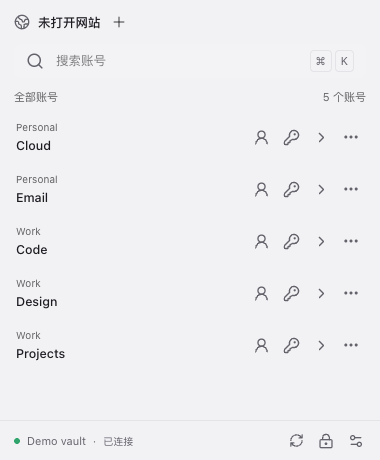
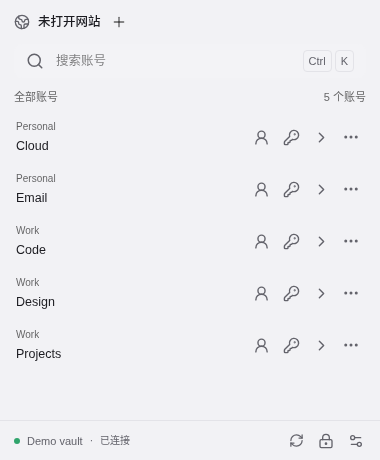
docs(store): refresh the Chrome Web Store materials for v0.1.7
Rebuild and verify the 0.1.7 Chrome package, retake both languages' screenshots so account details show the labeled fill action, and update version references. Give reviewers the v0.1.7 desktop client downloads with per-platform install steps, and keep the publisher's own verification status out of the dashboard text.

diff --git a/docs/chrome-web-store/reviewer-instructions.md b/docs/chrome-web-store/reviewer-instructions.md
@@ -1,25 +1,25 @@
 # 审核测试说明 / Reviewer instructions
 
-对应版本：0.1.2。本轮已使用真实生产扩展的工具栏弹窗，通过真实 Native Messaging 连接隔离 Go 客户端，拍摄中英文账号列表、详情及生成器，各 3 张，全部使用虚构数据。以下是从干净安装开始的完整审核步骤；这些实拍只证明其覆盖的场景。
+对应版本：0.1.7。商店截图已用 0.1.7 真实生产扩展的工具栏弹窗，通过真实 Native Messaging 连接隔离 Go 客户端重拍，中英文账号列表、详情及生成器各 3 张，全部使用虚构数据，见 [素材记录](assets.md)。以下是从干净安装开始的完整审核步骤；这些实拍只证明其覆盖的场景。
 
 ## 发布者提交前补齐
 
-- 在商店 **Test instructions** 中提供本版本桌面客户端的公开、固定下载 URL、支持的平台及安装步骤。项目入口是 https://github.com/knothhe/passpine ，不能假定尚未发布的 Release 链接可下载。
+- 桌面客户端下载已填入下方英文说明，指向已发布的 [v0.1.7 Release](https://github.com/knothhe/passpine/releases/tag/v0.1.7)（2026-10-23 核对为正式版、非草稿）。提交更新版本的扩展时，同步改为对应版本的 Release 和文件名。
 - 核对商店 Item ID、实际安装 ID、客户端 Native Host `allowed_origins` 一致。当前仓库开发 ID 为 `obnlebeedcbbchadakacilopfdaifgjh`，Host 为 `com.knothhe.passpine`。见 [官方 key 文档](https://developer.chrome.com/docs/extensions/reference/manifest/key)。
-- 使用最终商店分配的扩展 ID、最终 ZIP 和正式分发的桌面安装包，复跑以下步骤并记录平台、Chrome 版本、日期与结果。这组完整安装、填充、复制、锁定和恢复路径仍待验收；已完成的实拍与 Native Messaging 连通不能替代完整流程。
+- 使用最终商店分配的扩展 ID、最终 ZIP 和正式分发的桌面安装包，复跑以下步骤并记录平台、Chrome 版本、日期与结果。这组完整安装、填充、复制、锁定和恢复路径仍待验收；已完成的实拍与 Native Messaging 连通不能替代完整流程。下方英文说明会粘贴到后台，不在其中写入发布者自己的验收状态。
 - 本产品不需要开发者账户、云 API Key、付费服务或现有 password-store。审核人员应创建自己的临时库；本文件中的虚构口令只供临时验收，不用于真实账号。
 
 ## 中文测试步骤
 
-1. 安装并运行发布者提供的桌面客户端。在首次设置中选择“创建密码库”，选择一个新的空目录，设置密码库名称及至少 12 个字符的私钥口令，例如 `Passpine-review-2026!`，填写“确认口令”，点击“创建密钥与密码库”。无需预装 GnuPG 或导入密钥。预期：客户端生成受口令保护的 OpenPGP 私钥并进入空密码库。按创建后的提示，在客户端“设置 → 密码库”使用“导出恢复私钥”和“验证恢复备份”；临时测试结束后删除这组测试备份。
+1. 按下方英文说明中的地址下载并安装 v0.1.7 桌面客户端，然后运行。在首次设置中选择“创建密码库”，选择一个新的空目录，设置密码库名称及至少 12 个字符的私钥口令，例如 `Passpine-review-2026!`，填写“确认口令”，点击“创建密钥与密码库”。无需预装 GnuPG 或导入密钥。预期：客户端生成受口令保护的 OpenPGP 私钥并进入空密码库。按创建后的提示，在客户端“设置 → 密码库”使用“导出恢复私钥”和“验证恢复备份”；临时测试结束后删除这组测试备份。
 2. 在客户端“设置 → 浏览器”确认 Chrome 显示“已注册”；未注册时点击“注册”，已有失效连接时点击“修复”。保持客户端运行。安装审核中的扩展包，打开其页脚“设置与连接”图标，在浏览器设置页点击“检查连接”。预期：显示连接状态、库名称、Host 与扩展 ID。客户端完全退出时显示未连接状态及连接指引；仅关闭窗口可能仍在后台运行。
 3. 打开扩展，点击当前网站区域的加号“新建账号”。名称填 `review/local-test`，用户名填 `reviewer@example.invalid`，密码填 `Fixture-password-2026!`，网站填测试页的地址。需要测试 TOTP 时，在“自定义字段 → 添加字段”中将字段名称填为 `otp`，值填为虚构 Base32 种子 `JBSWY3DPEHPK3PXP`。点击“保存”。预期：账号加密保存并出现在客户端和扩展列表中，搜索 `local-test` 能找到它。编辑表单可维护自定义字段；详情页不逐项展示全部自定义字段。
 4. 点击账号行右侧的详情箭头“查看 local-test”，切换显示/隐藏密码，复制用户名或密码；在可信的临时文本编辑器内验证复制值。预期：密码默认遮罩；有上一步的有效 `otp` 字段时，详情显示计算出的一次性验证码及倒计时。复制成功后按客户端超时设置清理剪贴板，默认 30 秒，前提是剪贴板值未被其他内容替换。不要将测试凭证粘贴到外部服务。
-5. 打开你控制的测试登录页面（可使用下方静态表单），再打开扩展并点击账号正文。预期：当前顶层页面的用户名和密码输入框被填写，有 `autocomplete="one-time-code"` 时可填写 OTP；扩展不会提交表单。成功后弹窗关闭，并保存精确主机名的关联。重新打开扩展可优先找到该账号；在更多菜单中取消关联后该手动关联不再生效。
+5. 打开你控制的测试登录页面（可使用下方静态表单），再打开扩展并点击账号正文，或在账号详情页点击“填充账号与密码”。预期：当前顶层页面的用户名和密码输入框被填写，有 `autocomplete="one-time-code"` 时可填写 OTP；扩展不会提交表单。成功后弹窗关闭，并保存精确主机名的关联。重新打开扩展可优先找到该账号；在更多菜单中取消关联后该手动关联不再生效。
 6. 从账号详情页右上角点击“编辑账号”，更改并保存，再刷新客户端确认一致。再次进入详情页，点击“删除账号”并确认“移入回收站”。预期：账号从列表移除，在客户端“恢复中心 → 回收站”可恢复；恢复后重新打开扩展可见。
 7. 点击“新建账号”，或进入现有账号的“编辑账号”，在密码输入框下点击“重新生成密码”进入“密码生成器”。改变长度及字符类型并重新生成。预期：产生符合选项的密码，可点击“复制”，或点击“使用此密码”将结果带回当前账号表单；保存账号后才写入密码库。不应允许所有字符类型都关闭。
 8. 在扩展中锁定密码库，再请求查看或填充。预期：无法直接读取秘密；已配置系统解锁的平台会请求系统验证，否则前往客户端解锁后再继续。不要要求审核人员使用开发者的系统账户或生物识别信息。
-9. 在扩展设置切换 English / 简体中文 / 跟随系统、明暗主题与字号。预期：界面即时更新，账号名称与内容不被翻译。关于页面显示 0.1.2。
+9. 在扩展设置切换 English / 简体中文 / 跟随系统、明暗主题与字号。预期：界面即时更新，账号名称与内容不被翻译。关于页面显示 0.1.7。
 
 填充仅支持普通 HTTP/HTTPS 顶层页面；浏览器内部页、跨域 iframe、封闭 Shadow DOM 和部分定制输入框不在本次基本测试范围。HTTP 测试仅用虚构数据。Git 同步属于用户可选的客户端功能，基础审核不需要 Git 账户或远端仓库。
 
@@ -27,19 +27,23 @@
 
 Passpine is a companion to the separately installed local desktop client. No developer account, cloud API key, subscription, existing password-store, or preinstalled GnuPG is required for the basic review.
 
-**Desktop client download:** PUBLISHER MUST INSERT A VERIFIED, PUBLIC VERSIONED DOWNLOAD URL BEFORE SUBMISSION.
+**Desktop client download (v0.1.7):** https://github.com/knothhe/passpine/releases/tag/v0.1.7
+
+- Windows x64: `Passpine-0.1.7-windows-amd64-setup.exe` — https://github.com/knothhe/passpine/releases/download/v0.1.7/Passpine-0.1.7-windows-amd64-setup.exe . The installer is not Authenticode signed; if SmartScreen appears, choose **More info → Run anyway**.
+- macOS Apple Silicon: `Passpine-0.1.7-macos-arm64.zip` — https://github.com/knothhe/passpine/releases/download/v0.1.7/Passpine-0.1.7-macos-arm64.zip . Unzip and move Passpine.app to Applications. The app is not notarized; if macOS blocks the first launch, choose **Open Anyway** in System Settings → Privacy & Security. Intel Macs are not supported by this release.
+- Linux x86-64: `Passpine-0.1.7-linux-amd64.tar.gz` — https://github.com/knothhe/passpine/releases/download/v0.1.7/Passpine-0.1.7-linux-amd64.tar.gz . Requires GTK 3 and WebKitGTK 4.1. Extract into an empty folder and run `./install.sh`, which installs to `~/.local/bin` and adds a desktop menu entry.
 
 1. Install and run the companion client. Choose **Create vault**, select a new empty folder, and enter a vault name and a private-key passphrase of at least 12 characters. `Passpine-review-2026!` is a disposable example. Confirm the passphrase and select **Create key and vault**. The client generates a passphrase-protected OpenPGP private key locally. Export and verify a recovery-key backup through client Settings → Vault as prompted. Use a temporary vault only.
 2. In client Settings → Browsers, confirm Chrome shows **Registered**. If needed, select **Register**, or **Repair** if its existing registration is invalid. Keep the client running. Install the extension under review. Open the footer's **Settings and connection** icon and use **Check connection** on the Browser settings page. The Native Host is `com.knothhe.passpine`. The publisher must confirm the installed store ID is allowed by the client. Fully quit the client to test disconnection; closing its window may leave it running.
 3. Click the plus icon labeled **New account** in the extension's current-website area. Create `review/local-test` with username `reviewer@example.invalid`, password `Fixture-password-2026!`, and your controlled test-page URL. To test TOTP, choose **Custom fields → Add field**, enter `otp` as the field name and the dummy Base32 seed `JBSWY3DPEHPK3PXP` as its value. Save and search for the account. The editor manages custom fields; the details view does not list every custom field.
 4. Click the account row's right-hand details arrow labeled **View local-test**. Check password reveal/hide and copying. A valid `otp` field produces a one-time code with a countdown in the details view. Paste copied credentials only into a trusted local temporary editor. Credential clipboard expiry defaults to 30 seconds and clears only if the copied value has not been replaced.
-5. Open a controlled page with username and password inputs, invoke the extension, and click the account row. The top-level inputs should be filled; a supported one-time-code input can also be filled. Passpine does not submit the form. On success the popup closes and links the account to the exact hostname. Reopen the popup to verify the association, then unlink it through the account menu.
+5. Open a controlled page with username and password inputs, invoke the extension, and click the account row, or choose **Fill login** in account details. The top-level inputs should be filled; a supported one-time-code input can also be filled. Passpine does not submit the form. On success the popup closes and links the account to the exact hostname. Reopen the popup to verify the association, then unlink it through the account menu.
 6. In account details choose **Edit account**, save a change, and verify it in the client. Reopen details, choose **Delete account**, confirm **Move to trash**, then restore it through the client's Recovery → Trash.
 7. Open **New account** or **Edit account**, then select **Regenerate password** below the password input to open **Password generator**. Change length and character groups and regenerate. Select **Copy**, or **Use this password** to return the result to the current account form. Saving the account writes it to the vault.
 8. Lock the vault and request a credential. Secrets require another valid unlock. Configured supported devices may prompt for system authentication; otherwise unlock in the desktop client. Reviewers do not need the publisher's operating-system credentials.
-9. Switch English / Simplified Chinese / System default, color mode, and text size in extension settings. UI labels change while user entry content remains unchanged. The About page shows version 0.1.2.
+9. Switch English / Simplified Chinese / System default, color mode, and text size in extension settings. UI labels change while user entry content remains unchanged. The About page shows version 0.1.7.
 
-The extension cannot operate as a standalone vault. Browser internal pages, cross-origin frames, closed Shadow DOM, and some custom forms are not supported by the basic fill path. Git synchronization is optional and is not needed for review. The current English and Chinese screenshots show the production extension's real toolbar popup connected to an isolated Go client through real Native Messaging, using fictitious data. They cover the account list, details, and generator. A complete review using the final store-assigned ID and distributed desktop installer, including live-page filling, copying, locking, and recovery, remains pending. The separate web preview is an isolated UI demonstration and does not establish that real connection or fill a live page.
+The extension cannot operate as a standalone vault. Browser internal pages, cross-origin frames, closed Shadow DOM, and some custom forms are not supported by the basic fill path. Git synchronization is optional and is not needed for review.
 
 ## 可选本地测试表单 / Optional local fixture
 

diff --git a/docs/chrome-web-store/README.md b/docs/chrome-web-store/README.md
@@ -1,6 +1,6 @@
 # Chrome Web Store 上架材料
 
-目标：Passpine **0.1.2**，Chrome Manifest V3。准备日期：**2026-10-22**。本目录是提交材料，不包含商店上传或审核提交记录。
+目标：Passpine **0.1.7**，Chrome Manifest V3。准备日期：**2026-10-22**，按 0.1.7 更新于 **2026-10-23**。本目录是提交材料，不包含商店上传或审核提交记录。
 
 ## 可填写的材料
 
@@ -17,27 +17,27 @@
 
 ## 当前核对状态
 
-- 已核对构建后的 `browser/.output/chrome-mv3/manifest.json`：MV3、0.1.2、五项权限、无常驻站点注入和广泛主机权限。权限及数据流说明按实际代码编写。
+- 已核对 0.1.7 Chrome ZIP 内的 `manifest.json`：MV3、0.1.7、与 0.1.2 相同的五项权限、无主机权限和常驻站点注入；`key` 与 `config/browser-identities.json` 的正式身份一致，扩展 ID 未变。ZIP 内无源码、source map、测试配置或未替换的文案占位符。权限及数据流说明按实际代码编写。
 - 中英文短描述沿用包内 `_locales`；名称和描述均低于官方 75 / 132 字符限制。两种介绍的功能、前提和数据处理含义保持一致。
-- Chrome 官方图片、介绍、隐私和发布文档已在 2026-10-22 联网核对，见 [来源记录](sources.md)。尚未访问发布者后台。
-- 浏览器类型检查、231 项测试、Chrome / Firefox 构建通过。截图在当前生产扩展与隔离 Go 客户端之间实际完成 Native Messaging 连接、账号解密及密码生成；最终商店安装 ID + 网页填充、复制、锁定等完整验收仍需按审核指南复跑。
+- Chrome 官方图片、介绍、隐私和发布文档已在 2026-10-22 联网核对，介绍与隐私字段 2026-10-23 复核，见 [来源记录](sources.md)。尚未访问发布者后台。
+- 0.1.7：浏览器类型检查、291 项测试、Chrome / Firefox 构建与打包通过。中英文六张截图已于 2026-10-24 用 0.1.7 在 Linux 上重拍，在生产扩展与隔离 Go 客户端之间实际完成 Native Messaging 连接、账号解密及密码生成；字体与 macOS 版本的差异见 [素材记录](assets.md)。最终商店安装 ID + 网页填充、复制、锁定等完整验收仍需按审核指南复跑。
 
 ## 提交前的必要补项
 
 1. **公开隐私政策。** 政策已作为官网 `/privacy` 页面实现（见 [PRIVACY.md](PRIVACY.md)）。部署官网并绑定正式域名后，验证该 HTTPS 地址无需登录即可访问，再填入商店后台。政策的联系章节提供 GitHub Issues（公开）和 knothhe@gmail.com（私密）两个渠道。现有公开支持入口为 [GitHub Issues](https://github.com/knothhe/passpine/issues)，不要在此提交秘密。
-2. **配套客户端下载。** 在审核说明填入本版本公开、可直接获取的安装包固定 URL，说明平台与安装限制。源码仓库链接不等于已验证可用的安装包。
+2. **截图与客户端下载。** 中英文截图已按 0.1.7 重拍（含新的“填充账号与密码 / Fill login”按钮），配套客户端下载地址已按 v0.1.7 Release 填入[审核说明](reviewer-instructions.md)。扩展尚未在商店发布，提交时若扩展版本已更新，同步重拍并更新这两项。
 3. **商店扩展 ID。** 首次创建草稿后比较后台 Item ID 与当前开发 ID `obnlebeedcbbchadakacilopfdaifgjh`。若不同，按 [官方流程](https://developer.chrome.com/docs/extensions/reference/manifest/key)同步扩展公钥及客户端 Host 允许来源，重新构建、安装并测试真实连接。不能假定开发 key 已绑定商店条目。
 4. **最终实机验收。** 图片已生成并检查，均使用虚构数据。使用最终商店 ID 和对应客户端完成审核指南中的连接、复制、填充、锁定和恢复流程，并记录实际结果。
 5. **后台信息。** 完成发布者账户要求、类别、分发范围、价格、数据类型、Limited Use 认证和测试说明。对 HTTP 填充等限制如实说明；根据实际网站和运营情况确认安全处理要求。
 
 ## 上传包与填写顺序
 
-本次已生成 [Chrome 0.1.2 扩展 ZIP](package/passpine-0.1.2-chrome.zip)，可用于创建商店草稿。需要重新生成发行 ZIP 时，在仓库根目录运行：
+本次已生成 [Chrome 0.1.7 扩展 ZIP](package/passpine-0.1.7-chrome.zip)（SHA-256 见 [SHA256SUMS](package/SHA256SUMS)），可用于创建商店草稿。它由与 `v0.1.7` tag 相同的扩展源码本地构建，大小与 GitHub Release 中的 `passpine-0.1.7-chrome.zip` 相同；也可直接上传 Release 中由 CI 构建的同名文件。需要重新生成发行 ZIP 时，在仓库根目录运行：
 
 ```sh
 pnpm run package:browser
 ```
 
-该命令本地构建并打包 Chrome 与 Firefox，不会上传商店。Chrome 预期文件为 `browser/.output/passpine-0.1.2-chrome.zip`；上传前检查 ZIP 内 `manifest.json` 位于根目录、版本为 0.1.2、没有未替换文案占位符、没有源码/测试配置/真实凭证。不要把整个仓库或本目录的材料 ZIP 当扩展安装包。
+该命令本地构建并打包 Chrome 与 Firefox，不会上传商店。Chrome 预期文件为 `browser/.output/passpine-<版本>-chrome.zip`；上传前检查 ZIP 内 `manifest.json` 位于根目录、版本与目标一致、没有未替换文案占位符、没有源码/测试配置/真实凭证。不要把整个仓库或本目录的材料 ZIP 当扩展安装包。
 
 随后可在开发者后台上传 Chrome ZIP 为草稿，先核对 ID，再填写中英文介绍、图片、隐私政策、权限与数据声明、分发和 Test instructions。全部检查完成后由发布者决定提交审核与发布方式。[官方首次发布流程](https://developer.chrome.com/docs/webstore/publish)。

diff --git a/docs/chrome-web-store/assets.md b/docs/chrome-web-store/assets.md
@@ -1,6 +1,6 @@
 # 图片与拍摄记录
 
-对应 Passpine 0.1.2，2026-10-22 生成并逐张查看。规格依据见[官方来源](sources.md)。所有账号和生成的示例密码仅用于演示；没有读取个人浏览器配置或密码库。
+截图对应 Passpine 0.1.7，2026-10-24 在 Linux 上重新拍摄并逐张查看（0.1.2 版本于 2026-10-22 在 macOS 拍摄）。规格依据见[官方来源](sources.md)。所有账号和生成的示例密码仅用于演示；没有读取个人浏览器配置或密码库。
 
 ## 可上传的文件
 
@@ -20,7 +20,7 @@
 
 ## 实拍来源与验证范围
 
-- 使用当前 `browser/.output/chrome-mv3` 生产构建，Chrome for Testing 153.0.8010.12，独立临时 profile。通过真正的 `chrome.action.openPopup()` 工具栏弹窗入口拍摄，没有将 popup 当普通标签页打开或绕过消息来源校验。
+- 使用 0.1.7 的 `browser/.output/chrome-mv3` 生产构建，Linux 上 Playwright 提供的 Chromium 156.0.8078.4（品牌版 Chrome 不支持 `--load-extension`），独立临时 profile。通过真正的 `chrome.action.openPopup()` 工具栏弹窗入口拍摄，没有将 popup 当普通标签页打开或绕过消息来源校验。
 - 隔离 Go 客户端服务由 [store-demo/main.go](../../scripts/store-demo/main.go) 创建：使用正式 `app.Service`、真实 OpenPGP 密钥/条目加密及 Native Messaging 转发；五个虚构账号保存在临时目录。关闭设备解锁、Git 同步和操作记录，不操作个人账户。测试结束关闭服务和浏览器，并删除测试 profile、密码库和私钥。
 - 语言与浅色主题通过扩展真实设置控件切换。账号名称、目录和备注是用户数据，中文截图中保留其英文内容。
 - 原始弹窗为 380×460，保存在 `source-screenshots/<语言>/`。最终图将完整实拍等比放大到 456×552，加入品牌底图和外围说明；没有重绘或修改扩展内部 UI。等待转场结束，检查无叠影、裁字或遮挡。
@@ -42,8 +42,22 @@ node scripts/capture-store-screenshots.mjs
 
 字体使用 Avenir Next / PingFang SC，回退至 Helvetica Neue / Arial；不同机器的外围字形可能不同。脚本只使用临时测试目录，不能传入个人浏览器 profile 或个人密码库。重新拍摄后逐张查看，并核对尺寸、语言与当前版本。
 
+## 0.1.7 复核
+
+对比 `v0.1.2..v0.1.7` 的扩展界面代码：
+
+| 截图 | 0.1.7 是否需要重拍 | 原因 |
+| --- | --- | --- |
+| `01-accounts.png` | 否 | 账号行只修改了可访问名称和悬停提示，外观不变 |
+| `02-details.png` | **是**（中英文） | 详情页右上角的填充图标改为带文字的“填充账号与密码 / Fill login”按钮；弹窗打开时没有可填充的网页，因此按钮按实际状态显示为禁用 |
+| `03-generator.png` | 否 | 生成器组件未改动 |
+
+商店图标与宣传图不受影响。脚本一次重拍全部六张，2026-10-24 已用 0.1.7 重拍，保证同一组截图字体与环境一致。
+
+这次在 Linux 上拍摄，本机没有 Avenir Next / PingFang SC，底图文字与弹窗系统字体均回退为 Liberation Sans 及系统中文字体，字形不如 0.1.2 的 macOS 版本精致；搜索快捷键显示为 `Ctrl K`（macOS 为 `⌘ K`）。界面内容与 0.1.7 一致。如需与先前一致的字体，可在 macOS 上用同一命令重拍全部六张。
+
 ## 扩展 ZIP
 
-[passpine-0.1.2-chrome.zip](package/passpine-0.1.2-chrome.zip) 是此次本地构建的 Chrome 安装包，`manifest.json` 位于 ZIP 根目录，已核对无源码、测试服务、浏览器 profile 或私钥。只有这个扩展 ZIP 用于商店 Package 上传；文案、政策和图片分别填写或上传。
+[passpine-0.1.7-chrome.zip](package/passpine-0.1.7-chrome.zip) 是此次本地构建的 Chrome 安装包，`manifest.json` 位于 ZIP 根目录，已核对无源码、测试服务、浏览器 profile 或私钥。只有这个扩展 ZIP 用于商店 Package 上传；文案、政策和图片分别填写或上传。
 
 重新打包可执行 `pnpm --dir browser exec wxt zip`，将新版本 Chrome ZIP 复制到 `package/`，同步所有材料的版本号并重新核对。首次草稿创建后，仍需确认商店分配的 ID 与客户端允许来源一致。

diff --git a/docs/chrome-web-store/privacy-permissions.md b/docs/chrome-web-store/privacy-permissions.md
@@ -1,6 +1,6 @@
 # 隐私与权限后台填写参考
 
-版本 0.1.2；核对日期 2026-10-22。已读取构建后的 `browser/.output/chrome-mv3/manifest.json`，不是仅依据源配置推测。此文件供发布者填写后台；面向用户的政策见 [PRIVACY.md](PRIVACY.md)。
+版本 0.1.7；核对日期 2026-10-23（初版按 0.1.2 于 2026-10-22 编写）。已读取 0.1.7 Chrome ZIP 内的 `manifest.json`，不是仅依据源配置推测；权限与 0.1.2 相同。0.1.7 新增的客户端通道选择（`clientTarget`）只在开发者解包安装时可选并写入 `storage.local`，商店安装固定连接正式客户端，不写入该值；读取安装类型的 `management.getSelf` 不需要额外权限。此文件供发布者填写后台；面向用户的政策见 [PRIVACY.md](PRIVACY.md)。
 
 ## 单一用途
 

diff --git a/docs/chrome-web-store/sources.md b/docs/chrome-web-store/sources.md
@@ -1,6 +1,6 @@
 # 官方要求与核对记录
 
-核对日期：2026-10-22。以下页面已通过联网工具访问；这是材料准备记录，不代表开发者后台已填写或审核已通过。
+核对日期：2026-10-22；“商店介绍字段”与“隐私字段”两页于 2026-10-23 复核，介绍页的 URL 字段（Official URL、Homepage、Support）均为可选，两页都没有服务条款字段。以下页面已通过联网工具访问；这是材料准备记录，不代表开发者后台已填写或审核已通过。
 
 | 官方来源 | 本次核对结果 |
 | --- | --- |

diff --git a/docs/chrome-web-store/listing.zh-CN.md b/docs/chrome-web-store/listing.zh-CN.md
@@ -1,6 +1,6 @@
 # Chrome Web Store 文案 · 简体中文
 
-对应版本：0.1.2。语言选择：中文（简体）/ `zh_CN`。后台字段说明不属于要粘贴的介绍正文。
+对应版本：0.1.7。语言选择：中文（简体）/ `zh_CN`。后台字段说明不属于要粘贴的介绍正文。
 
 ## 名称
 

diff --git a/docs/chrome-web-store/listing.en.md b/docs/chrome-web-store/listing.en.md
@@ -1,6 +1,6 @@
 # Chrome Web Store copy · English
 
-Version: 0.1.2. Listing locale: English / `en`. Field notes are not part of the description to paste.
+Version: 0.1.7. Listing locale: English / `en`. Field notes are not part of the description to paste.
 
 ## Name
 
